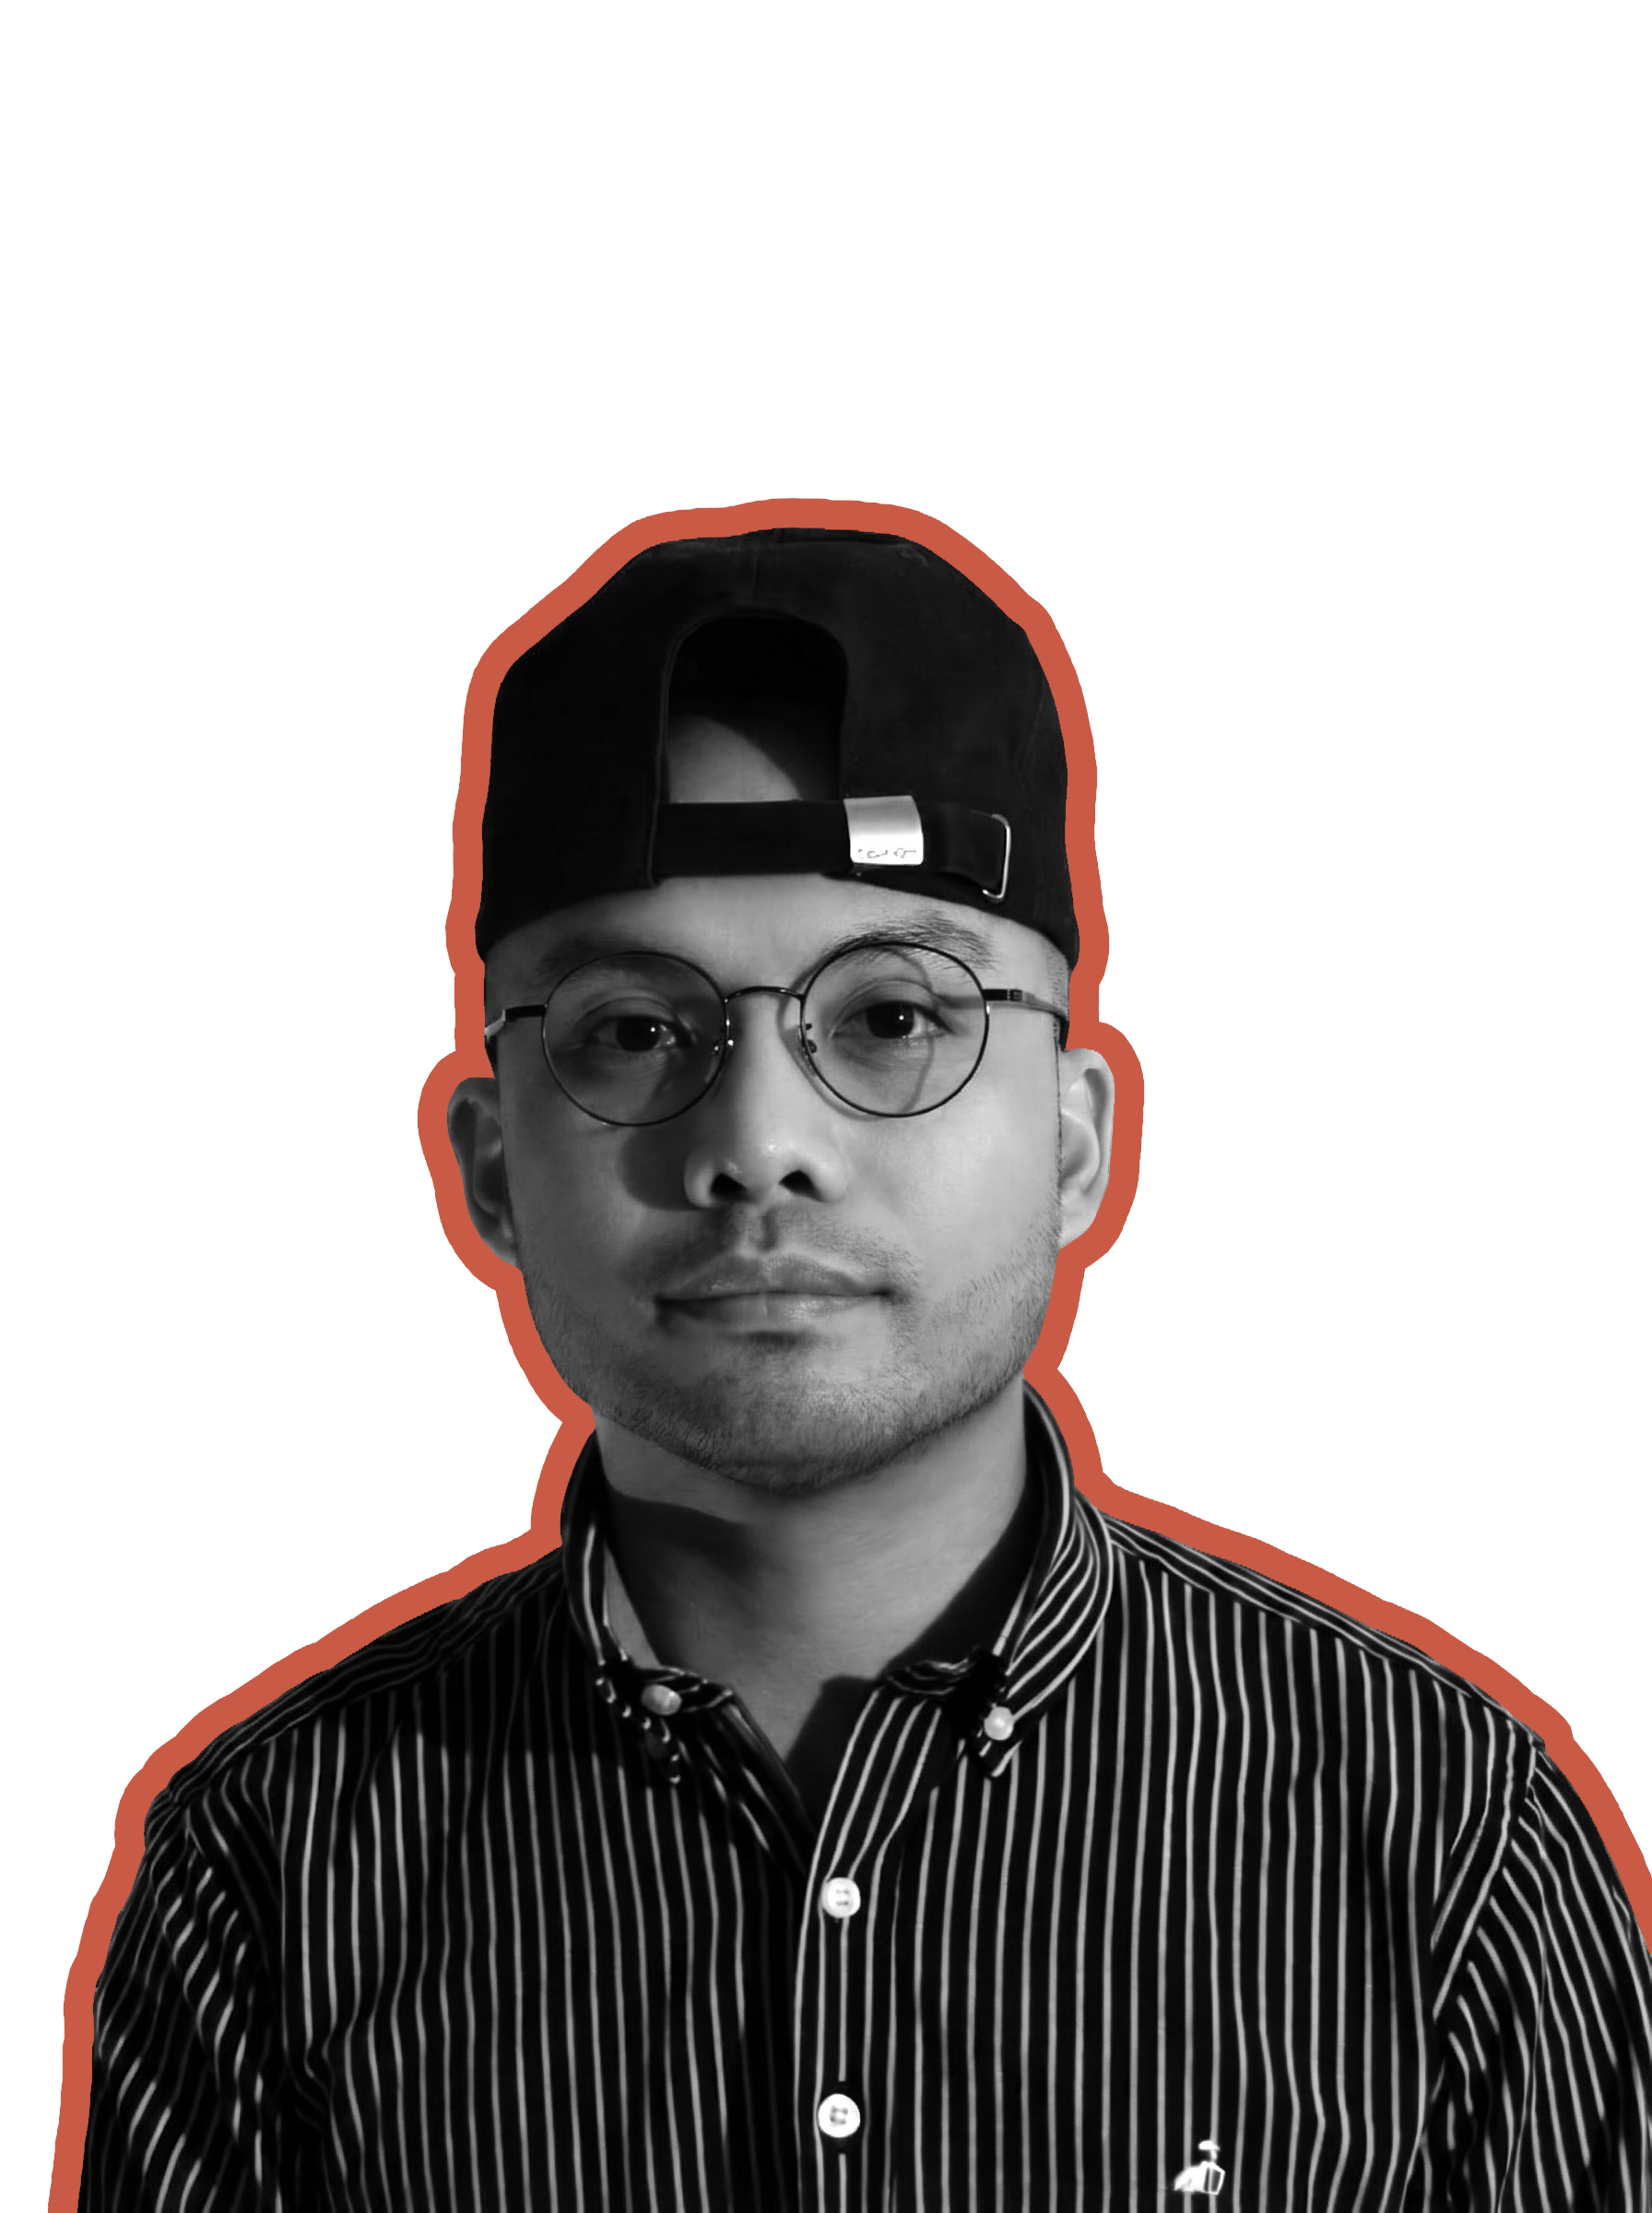
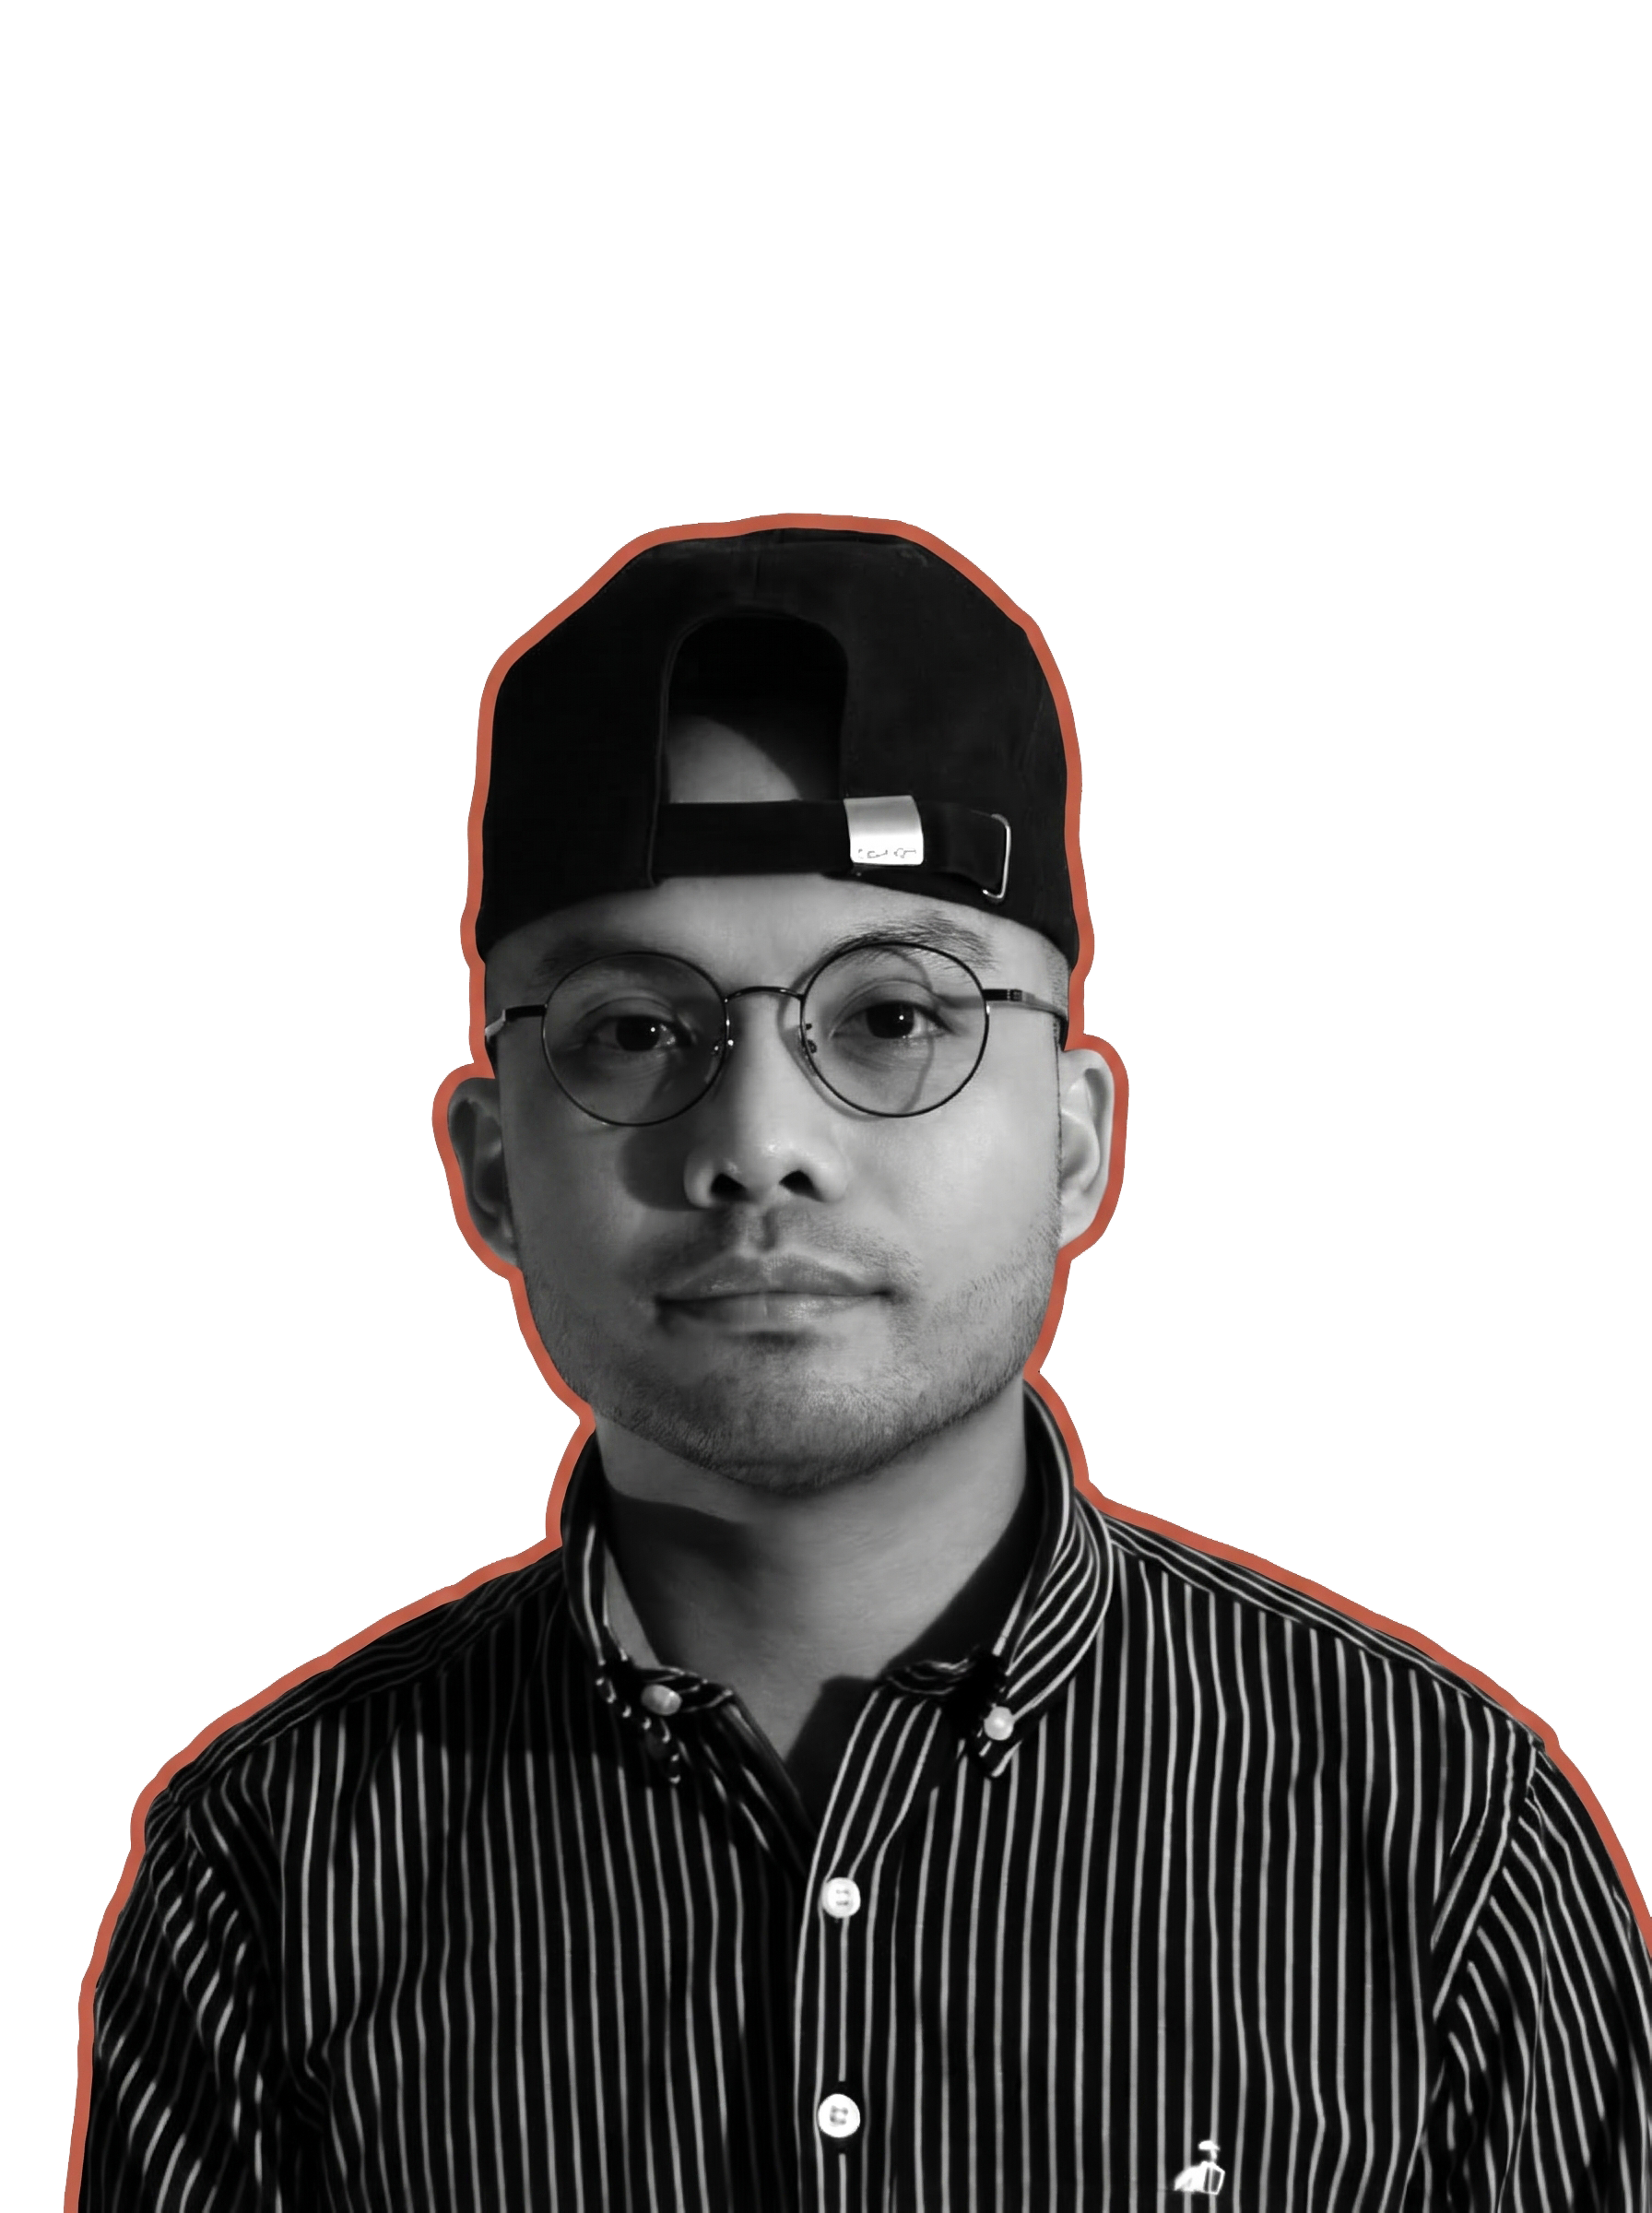
commit all 11

diff --git a/src/components/portfolio/HoverVideo.tsx b/src/components/portfolio/HoverVideo.tsx
@@ -1,0 +1,45 @@
+"use client";
+
+import { useRef, useState } from "react";
+
+export function HoverVideo({
+  src,
+  poster,
+}: {
+  src: string;
+  poster?: string | null;
+}) {
+  const v = useRef<HTMLVideoElement>(null);
+  const [playing, setPlaying] = useState(false);
+
+  return (
+    <div
+      className="relative h-full w-full"
+      onMouseEnter={() => {
+        v.current?.play();
+        setPlaying(true);
+      }}
+      onMouseLeave={() => {
+        v.current?.pause();
+        setPlaying(false);
+      }}
+    >
+      <video
+        ref={v}
+        src={src}
+        poster={poster ?? undefined}
+        muted
+        loop
+        playsInline
+        preload="metadata"
+        className="block h-full w-full object-cover"
+      />
+      <div
+        className="absolute right-3 bottom-3 flex h-9 w-9 items-center justify-center border-2 border-ink bg-accent font-display text-[14px] text-ink transition-opacity duration-150"
+        style={{ opacity: playing ? 0 : 1 }}
+      >
+        ▶
+      </div>
+    </div>
+  );
+}

diff --git a/src/components/admin/EditDrawer.tsx b/src/components/admin/EditDrawer.tsx
@@ -14,12 +14,14 @@ export type DrawerForm = {
   published: boolean;
   image_path: string;
   clay_image_path: string;
+  video_path: string;
 };
 
 const WORK_TYPES: { key: WorkType; label: string }[] = [
   { key: "3d", label: "3D Render" },
   { key: "web", label: "Website" },
   { key: "brand", label: "Branding" },
+  { key: "animation", label: "Animation" },
 ];
 
 type Props = {
@@ -30,8 +32,10 @@ type Props = {
   onSave: () => void;
   onUploadFile: (file: File) => void;
   onUploadClayFile: (file: File) => void;
+  onUploadVideoFile: (file: File) => void;
   uploading: boolean;
   uploadingClay: boolean;
+  uploadingVideo: boolean;
   imagePreviewUrl: string | null;
   clayPreviewUrl: string | null;
   saving: boolean;
@@ -73,14 +77,17 @@ export function EditDrawer({
   onSave,
   onUploadFile,
   onUploadClayFile,
+  onUploadVideoFile,
   uploading,
   uploadingClay,
+  uploadingVideo,
   imagePreviewUrl,
   clayPreviewUrl,
   saving,
 }: Props) {
   const fileInputRef = useRef<HTMLInputElement>(null);
   const clayInputRef = useRef<HTMLInputElement>(null);
+  const videoInputRef = useRef<HTMLInputElement>(null);
 
   function field<K extends keyof DrawerForm>(key: K) {
     return (value: DrawerForm[K]) => onChange({ ...form, [key]: value });
@@ -171,6 +178,42 @@ export function EditDrawer({
             className="cursor-pointer self-start border-none bg-transparent p-0 text-[11px] tracking-[0.2em] text-gray2 uppercase hover:text-accent"
           >
             ✕ Remove clay render
+          </button>
+        )}
+      </div>
+
+      <input
+        ref={videoInputRef}
+        type="file"
+        accept="video/mp4,video/webm"
+        className="hidden"
+        onChange={(e) => {
+          const file = e.target.files?.[0];
+          if (file) onUploadVideoFile(file);
+        }}
+      />
+      <div className="flex flex-col gap-[6px]">
+        <span className="text-[11px] font-bold tracking-[0.24em] text-gray2 uppercase">
+          Video · shown on the work card (mp4/webm)
+        </span>
+        <div
+          onClick={() => videoInputRef.current?.click()}
+          className="flex h-[72px] shrink-0 cursor-pointer flex-col items-center justify-center gap-1 border-2 border-dashed border-line-dashed bg-ink hover:border-accent"
+        >
+          <div className="text-[12px] tracking-[0.22em] text-gray2 uppercase">
+            {uploadingVideo
+              ? "Uploading…"
+              : form.video_path
+                ? "✓ " + form.video_path.split("-").slice(1).join("-")
+                : "▶ Upload video"}
+          </div>
+        </div>
+        {form.video_path && (
+          <button
+            onClick={() => field("video_path")("")}
+            className="cursor-pointer self-start border-none bg-transparent p-0 text-[11px] tracking-[0.2em] text-gray2 uppercase hover:text-accent"
+          >
+            ✕ Remove video
           </button>
         )}
       </div>

diff --git a/src/components/admin/Dashboard.tsx b/src/components/admin/Dashboard.tsx
@@ -21,6 +21,7 @@ const EMPTY_FORM: DrawerForm = {
   published: false,
   image_path: "",
   clay_image_path: "",
+  video_path: "",
 };
 
 export function Dashboard({
@@ -36,6 +37,7 @@ export function Dashboard({
   const [form, setForm] = useState<DrawerForm>(EMPTY_FORM);
   const [uploading, setUploading] = useState(false);
   const [uploadingClay, setUploadingClay] = useState(false);
+  const [uploadingVideo, setUploadingVideo] = useState(false);
   const [saving, setSaving] = useState(false);
 
   const isNew = editing === "new";
@@ -59,6 +61,8 @@ export function Dashboard({
       image_path: project.image_path ?? "",
       clay_image_path:
         project.tags?.find((t) => t.startsWith("clay:"))?.slice(5) ?? "",
+      video_path:
+        project.tags?.find((t) => t.startsWith("video:"))?.slice(6) ?? "",
     });
     setEditing(project);
   }
@@ -68,7 +72,7 @@ export function Dashboard({
   }
 
   async function uploadTo(
-    key: "image_path" | "clay_image_path",
+    key: "image_path" | "clay_image_path" | "video_path",
     file: File,
     setBusy: (b: boolean) => void,
   ) {
@@ -101,7 +105,12 @@ export function Dashboard({
       is_case_study: form.is_case_study,
       published: form.published,
       image_path: form.image_path || null,
-      tags: form.clay_image_path ? ["clay:" + form.clay_image_path] : null,
+      tags: (() => {
+        const tags: string[] = [];
+        if (form.clay_image_path) tags.push("clay:" + form.clay_image_path);
+        if (form.video_path) tags.push("video:" + form.video_path);
+        return tags.length ? tags : null;
+      })(),
     };
 
     if (isNew) {
@@ -201,8 +210,12 @@ export function Dashboard({
               onUploadClayFile={(file) =>
                 uploadTo("clay_image_path", file, setUploadingClay)
               }
+              onUploadVideoFile={(file) =>
+                uploadTo("video_path", file, setUploadingVideo)
+              }
               uploading={uploading}
               uploadingClay={uploadingClay}
+              uploadingVideo={uploadingVideo}
               saving={saving}
               imagePreviewUrl={
                 form.image_path ? projectImageUrl(form.image_path) : null

diff --git a/src/lib/projects.ts b/src/lib/projects.ts
@@ -13,6 +13,7 @@ const FALLBACK_PROJECTS: WorkCard[] = [
     category: "Interior Render · Corona",
     image: "/images/vela-residence.jpg",
     clayImage: null,
+    video: null,
     workType: "3d",
     featured: true,
     isCaseStudy: true,
@@ -25,6 +26,7 @@ const FALLBACK_PROJECTS: WorkCard[] = [
     category: "Commercial Render · V-Ray",
     image: null,
     clayImage: null,
+    video: null,
     workType: "3d",
     featured: false,
     isCaseStudy: false,
@@ -37,6 +39,7 @@ const FALLBACK_PROJECTS: WorkCard[] = [
     category: "Exterior Render · 3ds Max",
     image: null,
     clayImage: null,
+    video: null,
     workType: "3d",
     featured: false,
     isCaseStudy: false,
@@ -48,12 +51,15 @@ const FALLBACK_PROJECTS: WorkCard[] = [
 function mapRow(row: Project): WorkCard {
   const clayPath =
     row.tags?.find((t) => t.startsWith("clay:"))?.slice(5) ?? null;
+  const videoPath =
+    row.tags?.find((t) => t.startsWith("video:"))?.slice(6) ?? null;
   return {
     id: row.id,
     title: row.title,
     category: row.category,
     image: projectImageUrl(row.image_path),
     clayImage: projectImageUrl(clayPath),
+    video: projectImageUrl(videoPath),
     workType: (row.work_type as WorkType) || "3d",
     featured: row.featured ?? false,
     isCaseStudy: row.is_case_study,

diff --git a/src/components/portfolio/SelectedWorks.tsx b/src/components/portfolio/SelectedWorks.tsx
@@ -3,12 +3,15 @@ import type { WorkCard } from "@/lib/supabase/types";
 import { WORK_TYPE_LABELS } from "@/lib/supabase/types";
 import { CursorZone } from "./CursorZone";
 import { ScrubImage } from "./ScrubImage";
+import { HoverVideo } from "./HoverVideo";
 
 export function WorkTile({ project }: { project: WorkCard }) {
   return (
     <div className="group flex flex-col border-2 border-line hover:border-accent">
       <div className="relative aspect-[4/3] overflow-hidden">
-        {project.image ? (
+        {project.video ? (
+          <HoverVideo src={project.video} poster={project.image} />
+        ) : project.image ? (
           <ScrubImage src={project.image} alt={project.title} />
         ) : (
           <div className="flex h-full w-full items-center justify-center bg-surface-2 text-[11px] tracking-[0.2em] text-gray2 uppercase">

diff --git a/src/lib/supabase/types.ts b/src/lib/supabase/types.ts
@@ -1,9 +1,10 @@
-export type WorkType = "3d" | "web" | "brand";
+export type WorkType = "3d" | "web" | "brand" | "animation";
 
 export const WORK_TYPE_LABELS: Record<WorkType, string> = {
   "3d": "3D Render",
   web: "Website",
   brand: "Branding",
+  animation: "Animation",
 };
 
 // Card shape used by the public pages (client-safe, no server imports).
@@ -13,6 +14,7 @@ export type WorkCard = {
   category: string | null;
   image: string | null;
   clayImage: string | null;
+  video: string | null;
   workType: WorkType;
   featured: boolean;
   isCaseStudy: boolean;

diff --git a/src/components/portfolio/WorksIndex.tsx b/src/components/portfolio/WorksIndex.tsx
@@ -7,6 +7,7 @@ import { WorkTile } from "@/components/portfolio/SelectedWorks";
 const FILTERS: { key: WorkType | "all"; label: string }[] = [
   { key: "all", label: "All" },
   { key: "3d", label: "3D Render" },
+  { key: "animation", label: "Animation" },
   { key: "web", label: "Website Design" },
   { key: "brand", label: "Branding" },
 ];
@@ -31,7 +32,7 @@ export function WorksIndex({ projects }: { projects: WorkCard[] }) {
           All Works <span className="text-accent">↗︎</span>
         </h1>
         <div className="pb-[14px] text-[13px] tracking-[0.24em] text-gray2 uppercase">
-          {count} Projects · 3D · Web · Brand
+          {count} Projects · 3D · Motion · Web · Brand
         </div>
       </div>
 

diff --git a/README.md b/README.md
@@ -16,7 +16,16 @@ Interactive hero + frame scrub (new):
 - `Hero.tsx` — replaced; uses ReactiveName for the name block (nothing else changed)
 - `SelectedWorks.tsx` — replaced; WorkTile uses ScrubImage (keeps CursorZone wiring)
 
-Latest (logo SVG + contact upgrades):
+Latest (Animation work type + video upload):
+- `types.ts` — adds "animation" WorkType + `video` on WorkCard
+- `projects.ts` — maps video from tags (`video:<path>`, same trick as clay — still no SQL needed)
+- `Dashboard.tsx` + `EditDrawer.tsx` — "Animation" type button + video upload slot (mp4/webm, goes to the same project-images bucket) + remove button
+- `HoverVideo.tsx` — new; card video: poster still, plays muted on hover, ▶ badge
+- `SelectedWorks.tsx` — WorkTile prefers video > image > placeholder
+- `WorksIndex.tsx` — adds Animation filter on /works
+Upload BOTH a video and an image per animation project — the image is the poster/thumbnail. Keep videos short (<20MB) for fast cards.
+
+Previous (logo SVG + contact upgrades):
 - `public/images/logo.svg` — new; your logo paths recolored to #C95B46 on transparent (the uploaded SVG had its colors stripped)
 - `public/wilken.vcf` — new; downloadable contact card
 - `Header.tsx` + `admin/Sidebar.tsx` — replaced; use logo.svg (plain <img>, next/image blocks SVG). Delete public/images/wilken-logo.jpg after.